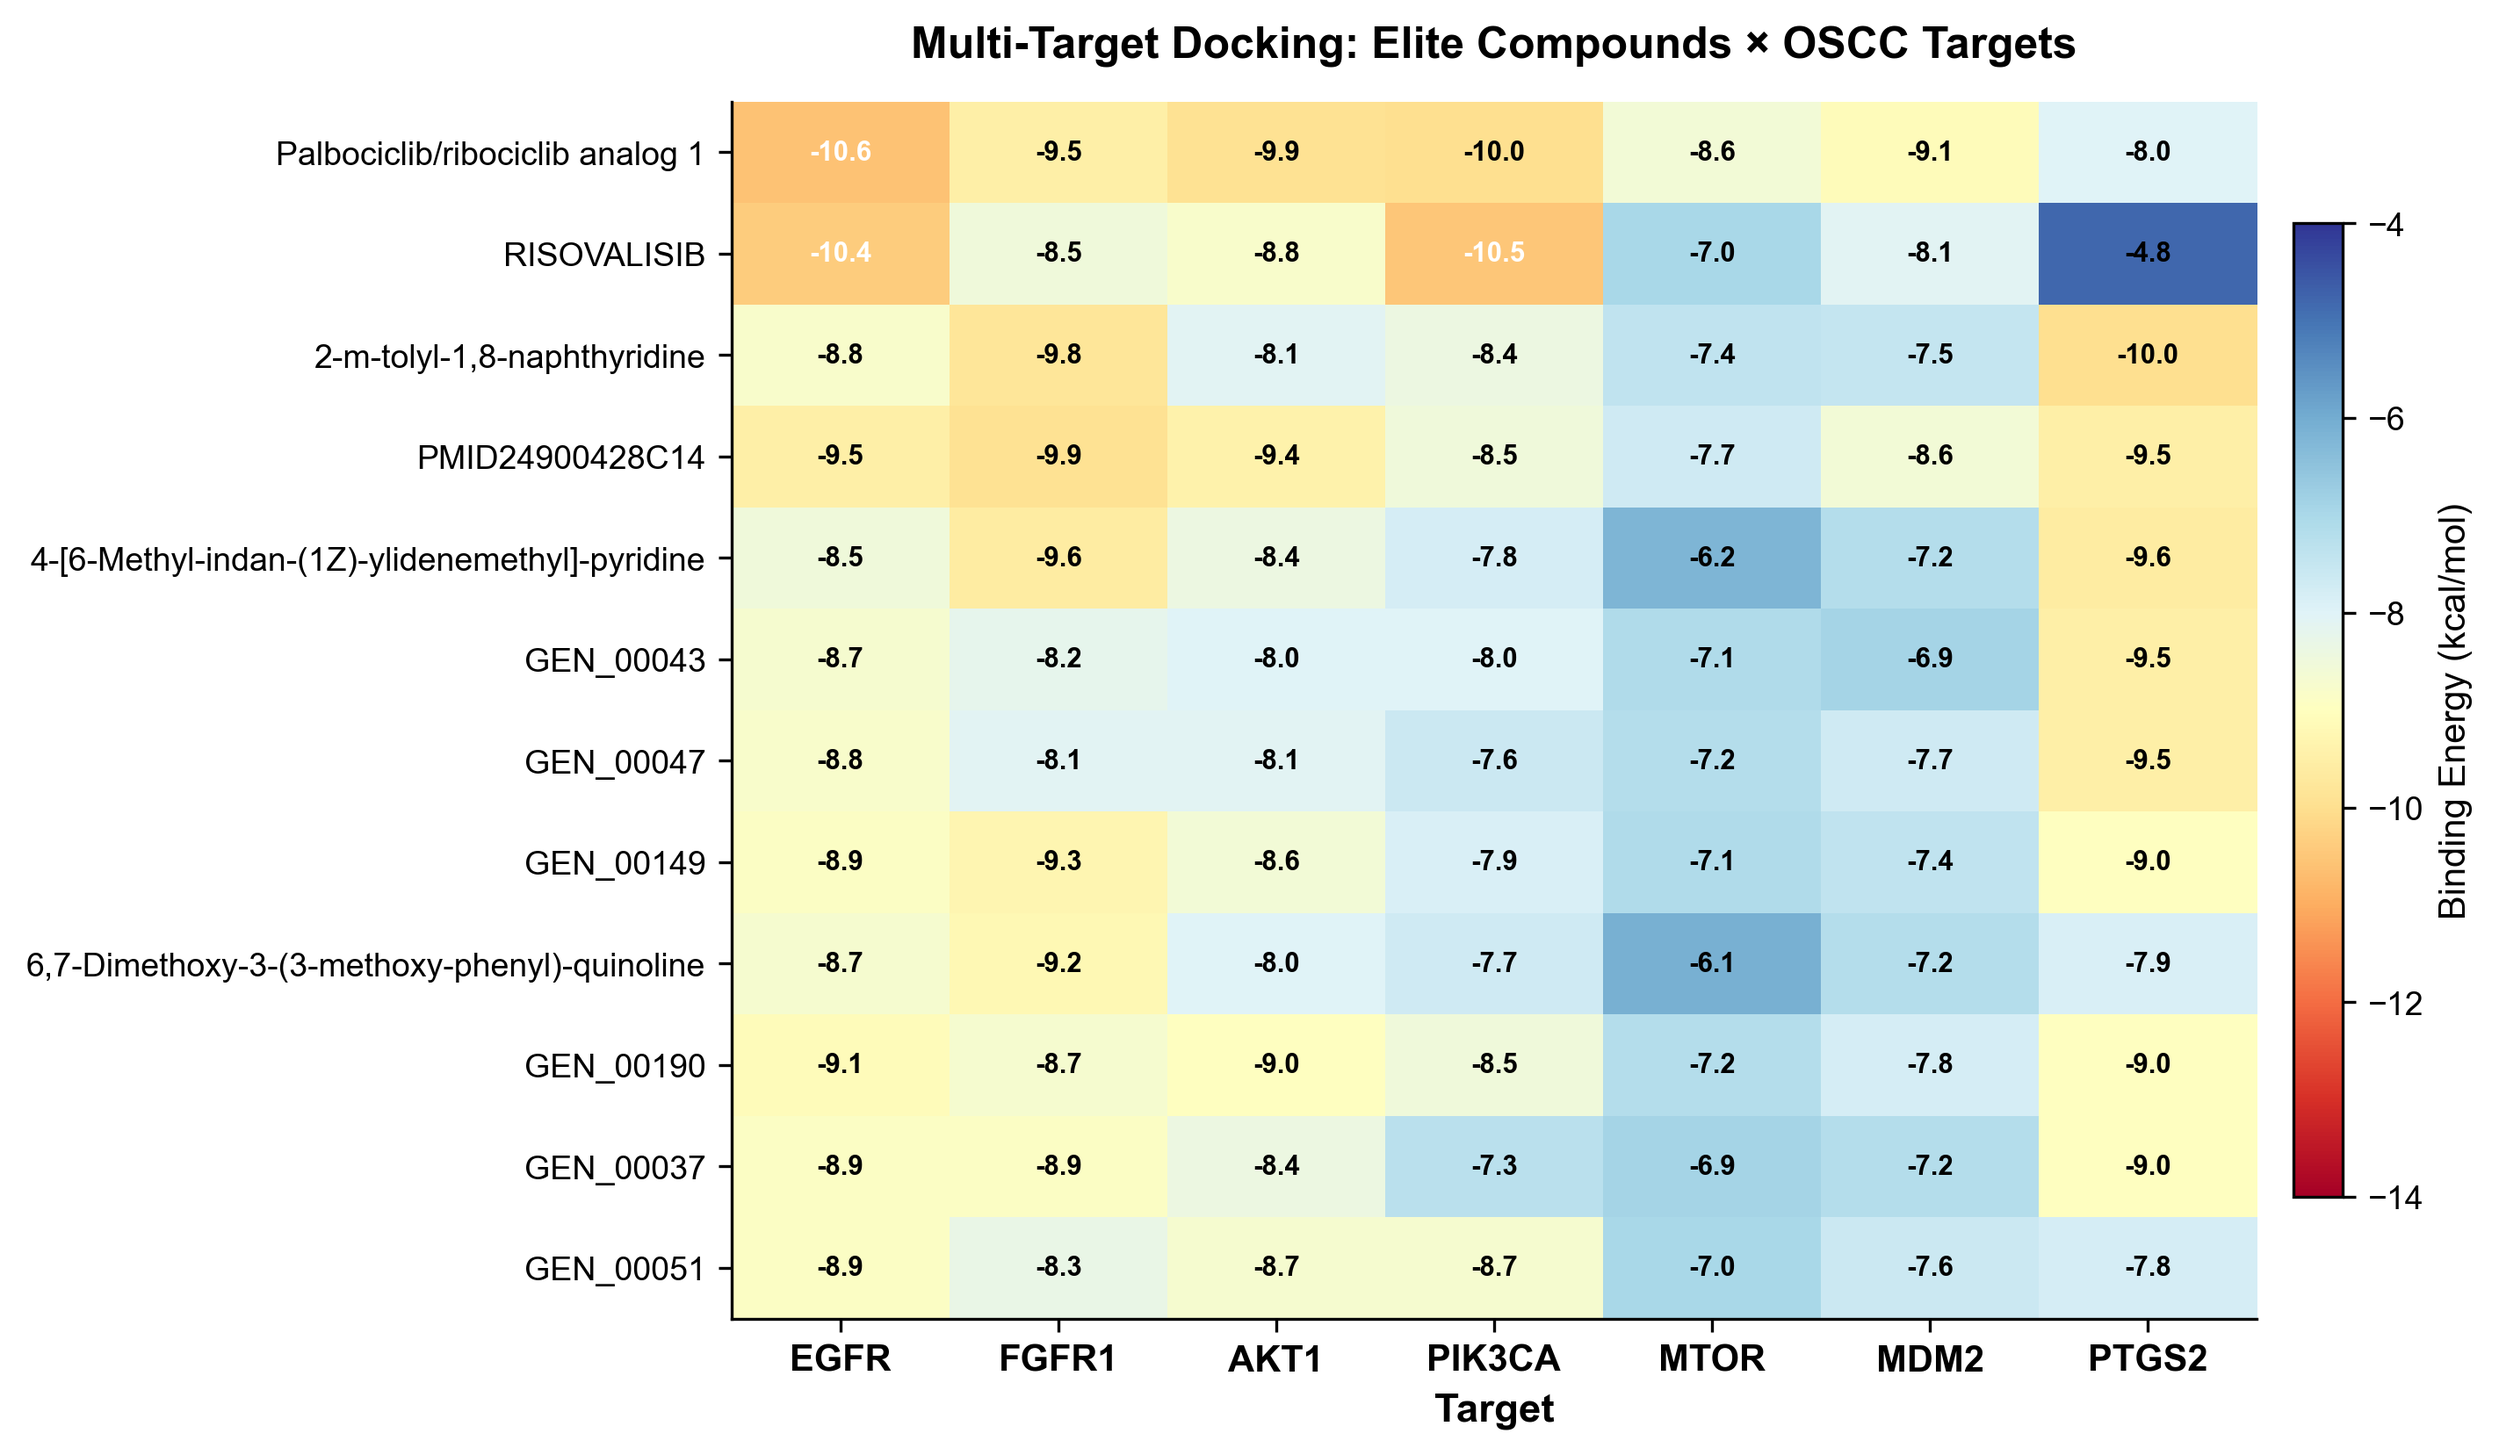
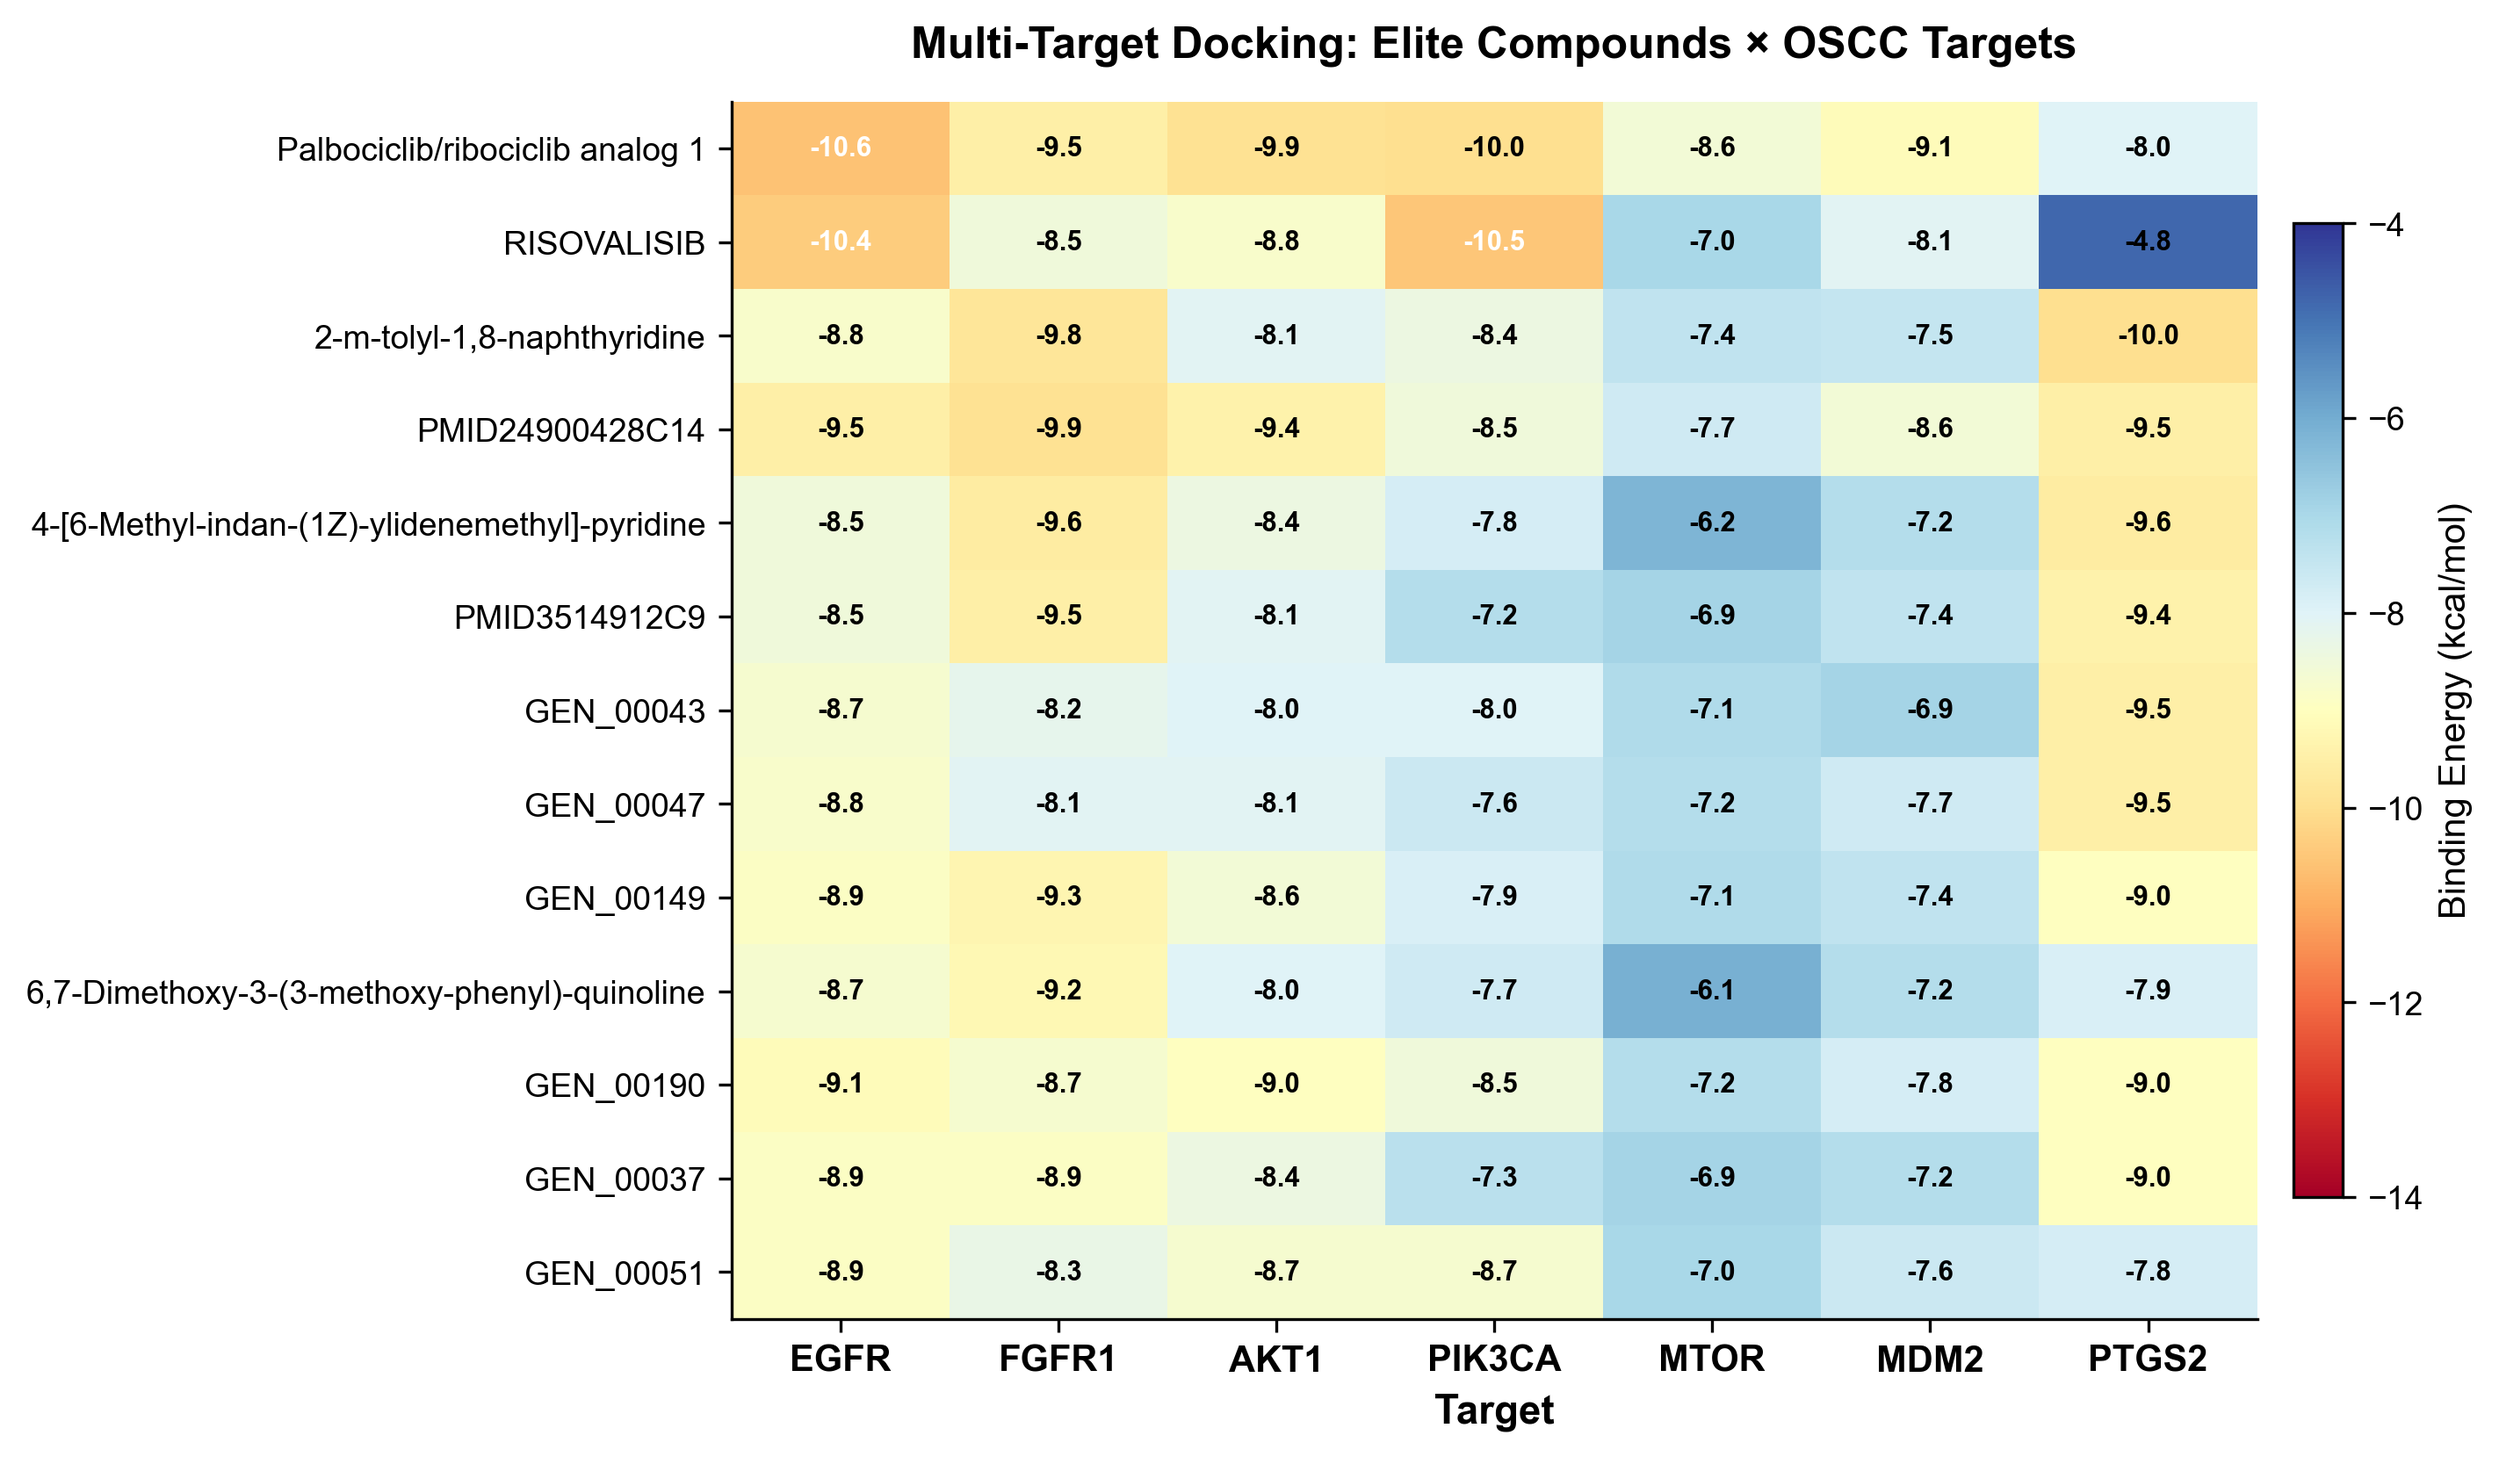
Fix Fig9 docking heatmap: was showing 12/13 elite compounds, caption said 50
scripts/create_publication_figures.py:fig4_docking_heatmap() filtered to
is_elite==True (13 compounds, Phase 8's triple-validated elite set) but then
arbitrarily truncated to .head(12), silently dropping one compound
(PMID3514912C9). Meanwhile the manuscript caption described this as 'the
50-compound elite candidate set', conflating it with the distinct, larger
Phase 7b/9a 50-compound multi-target-binder set. Removed the truncation
(all 13 now shown) and corrected the caption to say '13 triple-validated
elite candidates (docking + ADMET + multi-target selectivity concordant;
Phase 8)'. All underlying docking numbers (targets, energies, job counts,
thresholds) independently verified against docking_summary.json and
multitarget_summary.json -- fully correct, no other changes needed.

diff --git a/documents/generate_manuscript_v4_full.py b/documents/generate_manuscript_v4_full.py
@@ -481,8 +481,10 @@ def build():
         f'profile plausibly advantageous in a molecularly heterogeneous disease such as OSCC, where '
         f'single-target inhibition has historically underperformed.')
     figure(doc, 'Fig9_Docking_Heatmap_Elite.png',
-           'Figure 6. Multi-target docking energy heatmap for the 50-compound elite candidate set '
-           'across all 7 productive targets, illustrating broad polypharmacology.')
+           f'Figure 6. Multi-target docking energy heatmap for the {P8["triple_validated_elite"]["count"]} '
+           'triple-validated elite candidates (docking + ADMET + multi-target selectivity '
+           'concordant; Phase 8) across all 7 productive targets, illustrating broad '
+           'polypharmacology.')
 
     h(doc, 'ADMET and safety profiling', level=2)
     para(doc,
